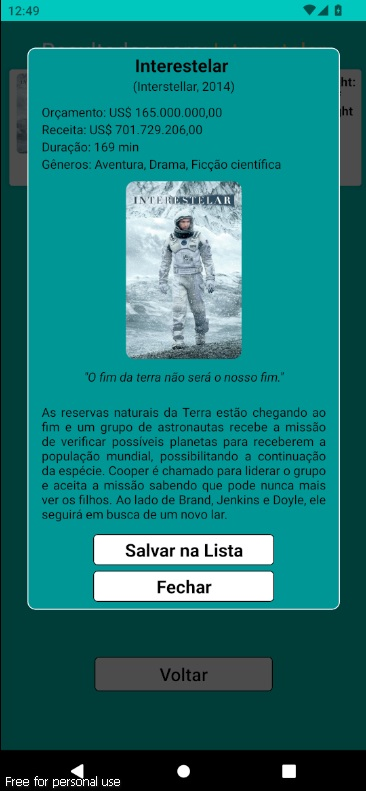
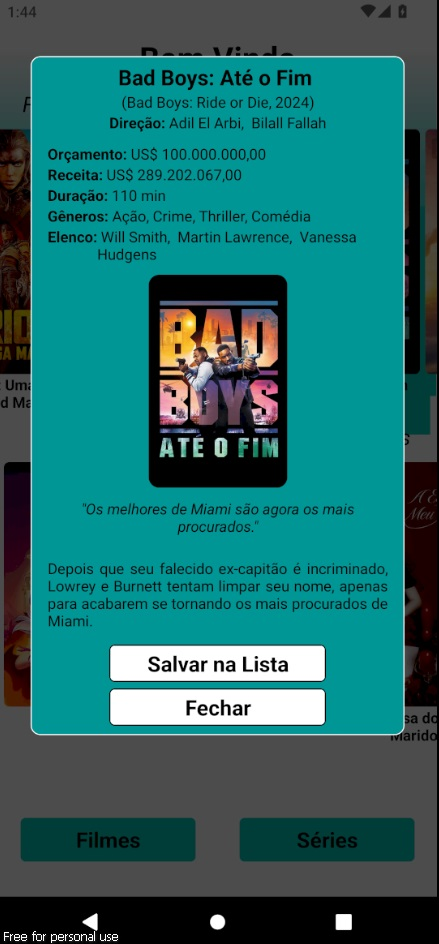
feat: add diretor e atores nos detalhes do filme

diff --git a/src/Components/Modals/MovieDetails.tsx b/src/Components/Modals/MovieDetails.tsx
@@ -1,15 +1,20 @@
 import React, { useState, useEffect } from "react";
 import { View, Text, TouchableOpacity, StyleSheet, Image, Alert } from "react-native";
-import { API_IMAGE, API_KEY, API_SEARCH_MOVIE_ID } from "../../Constants/api";
-import { MovieType } from "../../interfaces";
+import { API_IMAGE, API_KEY, API_MOVIE_CREDIT, API_SEARCH_MOVIE_ID } from "../../Constants/api";
+import { MovieCreditsType, MovieType } from "../../interfaces";
 import { MotiView } from "moti";
 import LottieView from "lottie-react-native";
 import { ScrollView } from "react-native-gesture-handler";
 import { useListaContext } from "../../Hooks/ListProvider";
+import { StatusBar } from "expo-status-bar";
 
 export function MovieDetails({ handleClose, id, year }: any) {
 
     const [movie, setMovie] = useState<MovieType | null>(null);
+    const [movieCredits, setMovieCredits] = useState<MovieCreditsType | null>(null);
+    const [director, setDirector] =useState<string[]>([])
+    const [actors, setActors] = useState<string[]|null>([])
+    
 
     const { listaFilme, setListaFilme } = useListaContext();
 
@@ -17,6 +22,23 @@ export function MovieDetails({ handleClose, id, year }: any) {
         const res = await fetch(url);
         const data = await res.json();
         setMovie(data);
+
+        
+    }
+
+    const getMovieCredits = async(url:any)=>{
+        const res = await fetch(url);
+        const data: MovieCreditsType = await res.json();
+        setMovieCredits(data);
+        
+        const director = data.crew.filter(cast => cast.job == "Director").map(diretor => diretor.name);  
+        setDirector(director);
+              
+        
+
+        const actors = data.cast.slice(0,3).map(actor => actor.name);
+        setActors(actors);
+        
     }
 
     useEffect(() => {
@@ -24,7 +46,12 @@ export function MovieDetails({ handleClose, id, year }: any) {
         getMovie(movieURL)
         console.log(movieURL)
 
-    }, [])
+        const movieCreditURL = API_MOVIE_CREDIT(id);
+        getMovieCredits(movieCreditURL);
+
+        
+        console.log(movieCreditURL);          
+        }, [])
 
     const addFilme = (filme: MovieType) => {
 
@@ -58,6 +85,9 @@ export function MovieDetails({ handleClose, id, year }: any) {
 
     return (
         <ScrollView style={styles.container}>
+            <StatusBar
+            backgroundColor={"rgba(0,0,0,0.7)"}
+            />
 
             {movie ? (<MotiView
                 from={{ opacity: 0 }}
@@ -69,16 +99,29 @@ export function MovieDetails({ handleClose, id, year }: any) {
                     style={styles.title}
                 >{movie?.title} </Text>
                 <Text style={{ textAlign: 'center' }}>({movie?.original_title}, {year})</Text>
+                <View style={{justifyContent: 'center',flexDirection:'row'}}>
+                <Text style={{fontWeight:'bold'}}>Direção:</Text><Text>{director && director.map((name, index) =>(
+                    <Text key={index}>{index > 0 ? ', ': ''} {name}</Text>
+                ))}</Text></View>
                 <View
                     style={{ padding: 10 }}
-                >
-                    <Text>Orçamento: {formattedBudget}</Text>
-                    <Text>Receita: {formattedRevenue}</Text>
-
-                    <Text>Duração: {movie?.runtime} min</Text>
-                    <Text>Gêneros: {movie && movie.genres.map((genre, index) => (
+                ><View style={{flexDirection:'row'}}>
+                    <Text style={{fontWeight:"bold"}}>Orçamento:</Text><Text> {formattedBudget}</Text>
+                    </View>
+                    <View style={{flexDirection:'row'}}>
+                    <Text style={{fontWeight:"bold"}}>Receita:</Text><Text> {formattedRevenue}</Text></View>
+                    <View style={{flexDirection:'row'}}>
+                    <Text style={{fontWeight:"bold"}}>Duração:</Text><Text> {movie?.runtime} min</Text></View>
+                    <View style={{flexDirection:'row'}}>
+                    <Text style={{fontWeight:"bold"}}>Gêneros:</Text><Text> {movie && movie.genres.map((genre, index) => (
                         <Text key={index}>{index > 0 ? ', ' : ''}{genre.name}</Text>
-                    ))}</Text>
+                    ))}</Text></View>
+                    <View style={{flexDirection:'row', width:'90%'}}>
+
+                    <Text style={{fontWeight:"bold"}}>Elenco:</Text><Text>{actors && actors.map((name, index) =>(
+                        <Text key={index}>{index > 0 ? ', ': ''} {name}</Text>
+                     ))}
+                     </Text></View>
                 </View>
 
                 <Image

diff --git a/src/Components/Modals/TvShowDetails.tsx b/src/Components/Modals/TvShowDetails.tsx
@@ -1,5 +1,5 @@
 import React, { useState, useEffect } from "react";
-import { View, Text, TouchableOpacity, StyleSheet, Image, Alert } from "react-native";
+import { View, Text, TouchableOpacity, StyleSheet, Image, Alert, StatusBar } from "react-native";
 import { API_DATABASE, API_IMAGE, API_KEY, API_TVSHOW } from "../../Constants/api";
 import { MovieType, } from "../../interfaces";
 import { MotiView } from "moti";
@@ -77,6 +77,10 @@ export function TvShowDetails({ handleClose, id, year }: any) {
 
     return (
         <ScrollView style={styles.container}>
+            <StatusBar
+            backgroundColor={"rgba(0,0,0,0.7)"}
+            />
+
             {tvShow ? (
                 <MotiView
                     from={{ opacity: 0 }}

diff --git a/src/Constants/api.ts b/src/Constants/api.ts
@@ -23,3 +23,5 @@ export const API_POPULAR_TVSHOWS = `https://api.themoviedb.org/3/tv/top_rated?${
 export const API_SEARCH_MOVIE_GENRE_ID = `https://api.themoviedb.org/3/discover/movie?${API_KEY}&language=pt-BR&with_genres=`
 
 export const API_SEARCH_TVSHOW_GENRE_ID = `https://api.themoviedb.org/3/discover/tv?${API_KEY}&language=pt-BR&with_genres=`
+
+export const API_MOVIE_CREDIT =(movieId: number| string) => `https://api.themoviedb.org/3/movie/${movieId}/credits?${API_KEY}&language=pt-BR`

diff --git a/src/interfaces.ts b/src/interfaces.ts
@@ -28,3 +28,13 @@ export interface MovieType {
     last_air_date: any;
     assistido: boolean;
 }
+
+export interface MovieCreditsType {
+    cast:{
+        name:string
+    }[];
+    crew:{
+        name:string;
+       job:string
+    }[]
+}
